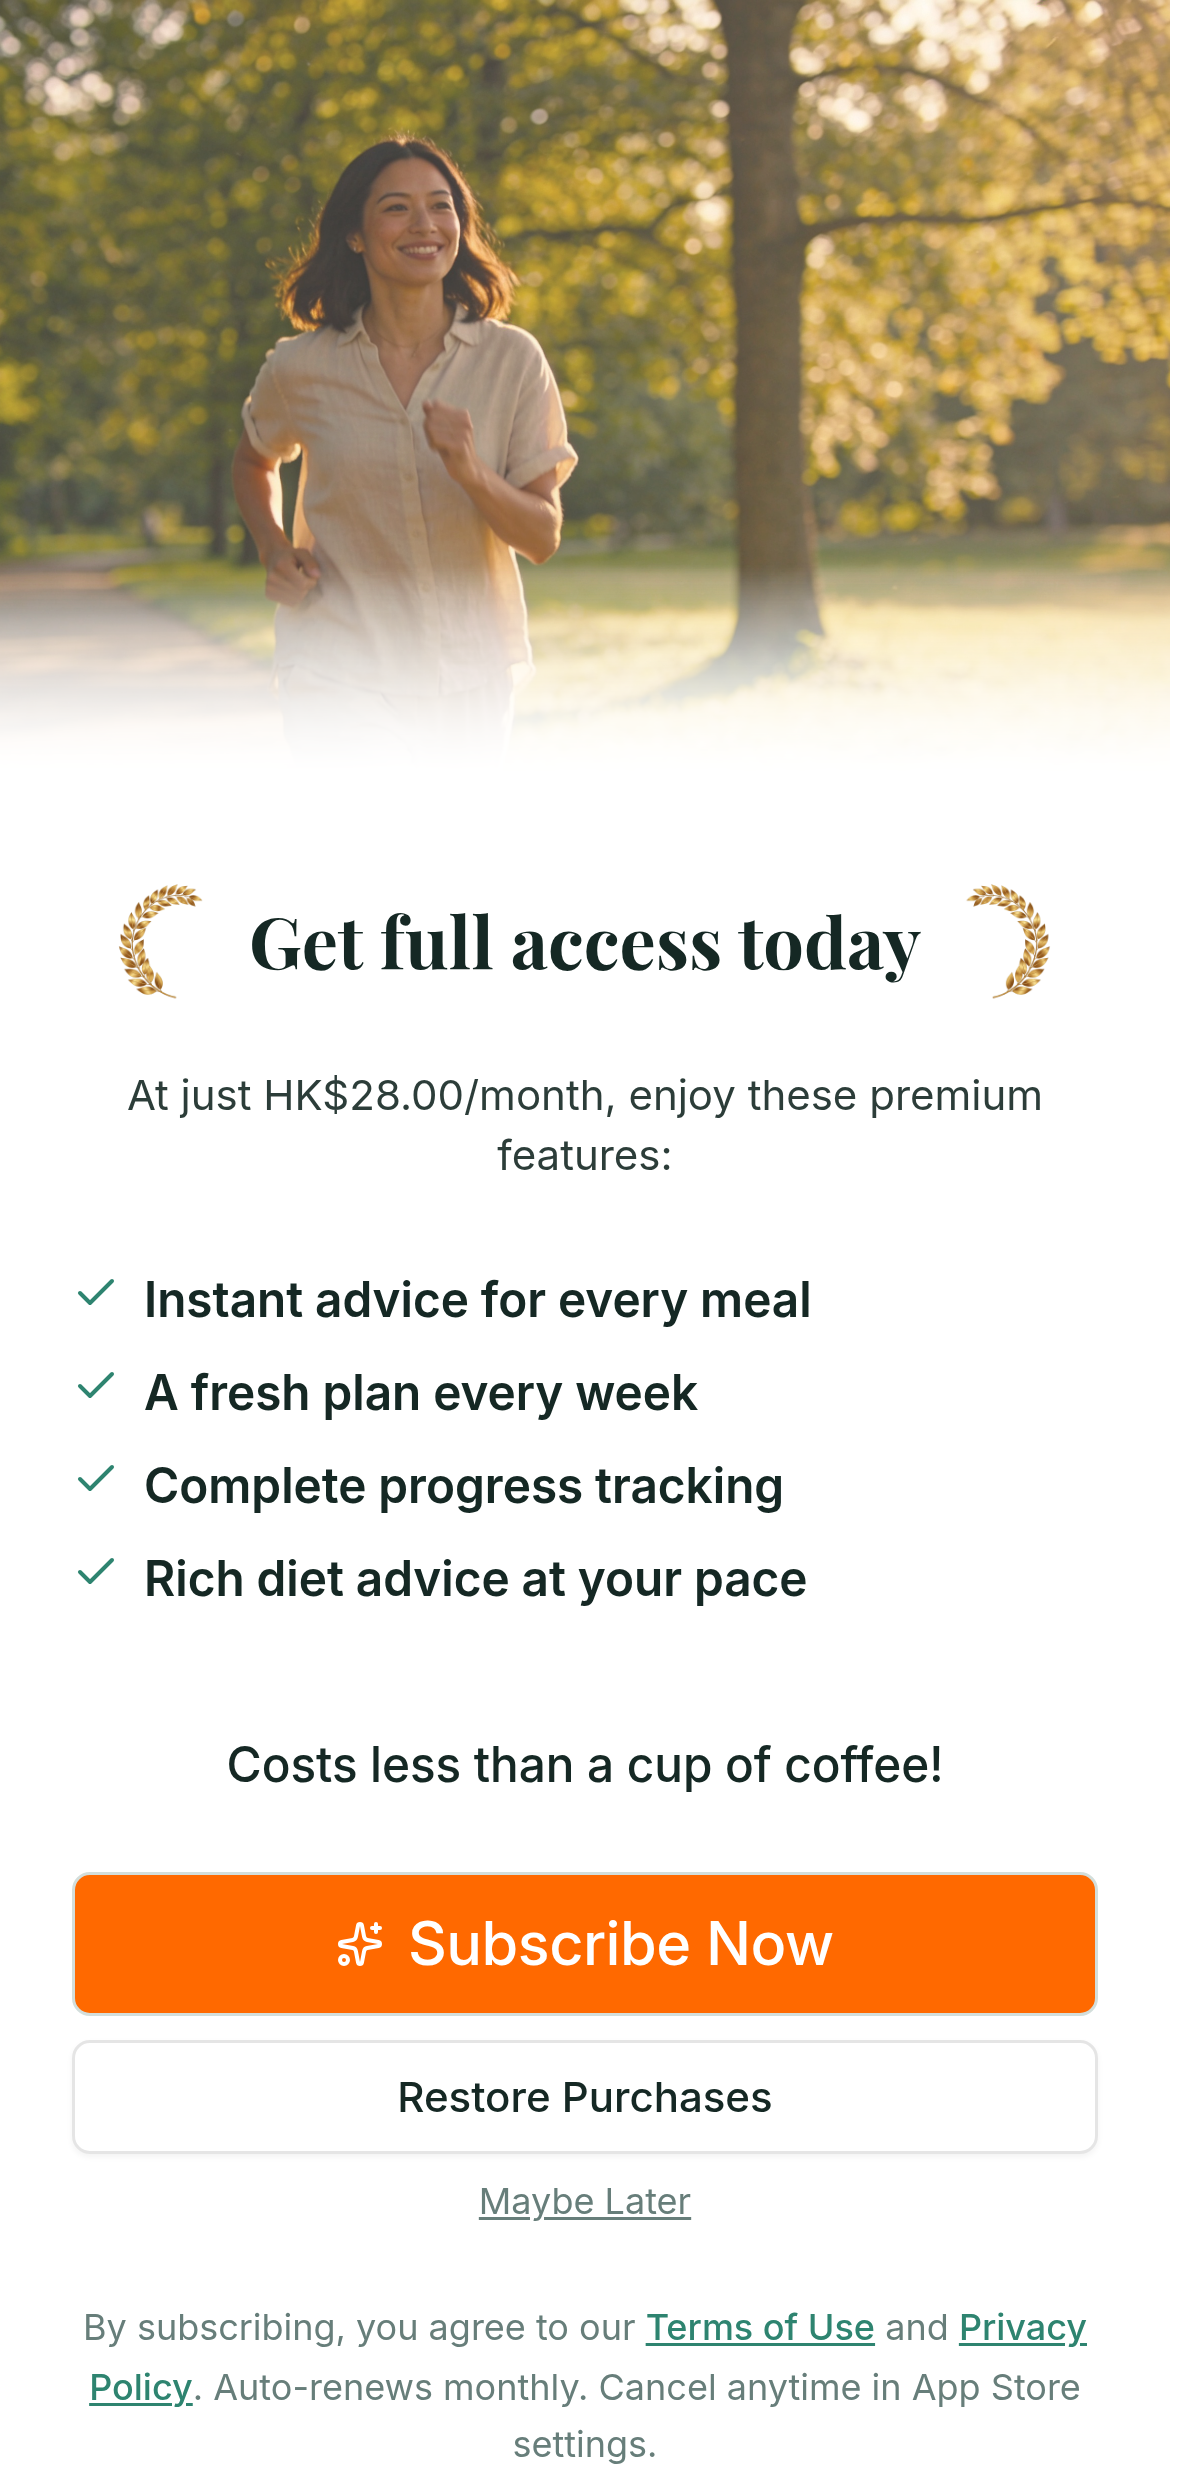
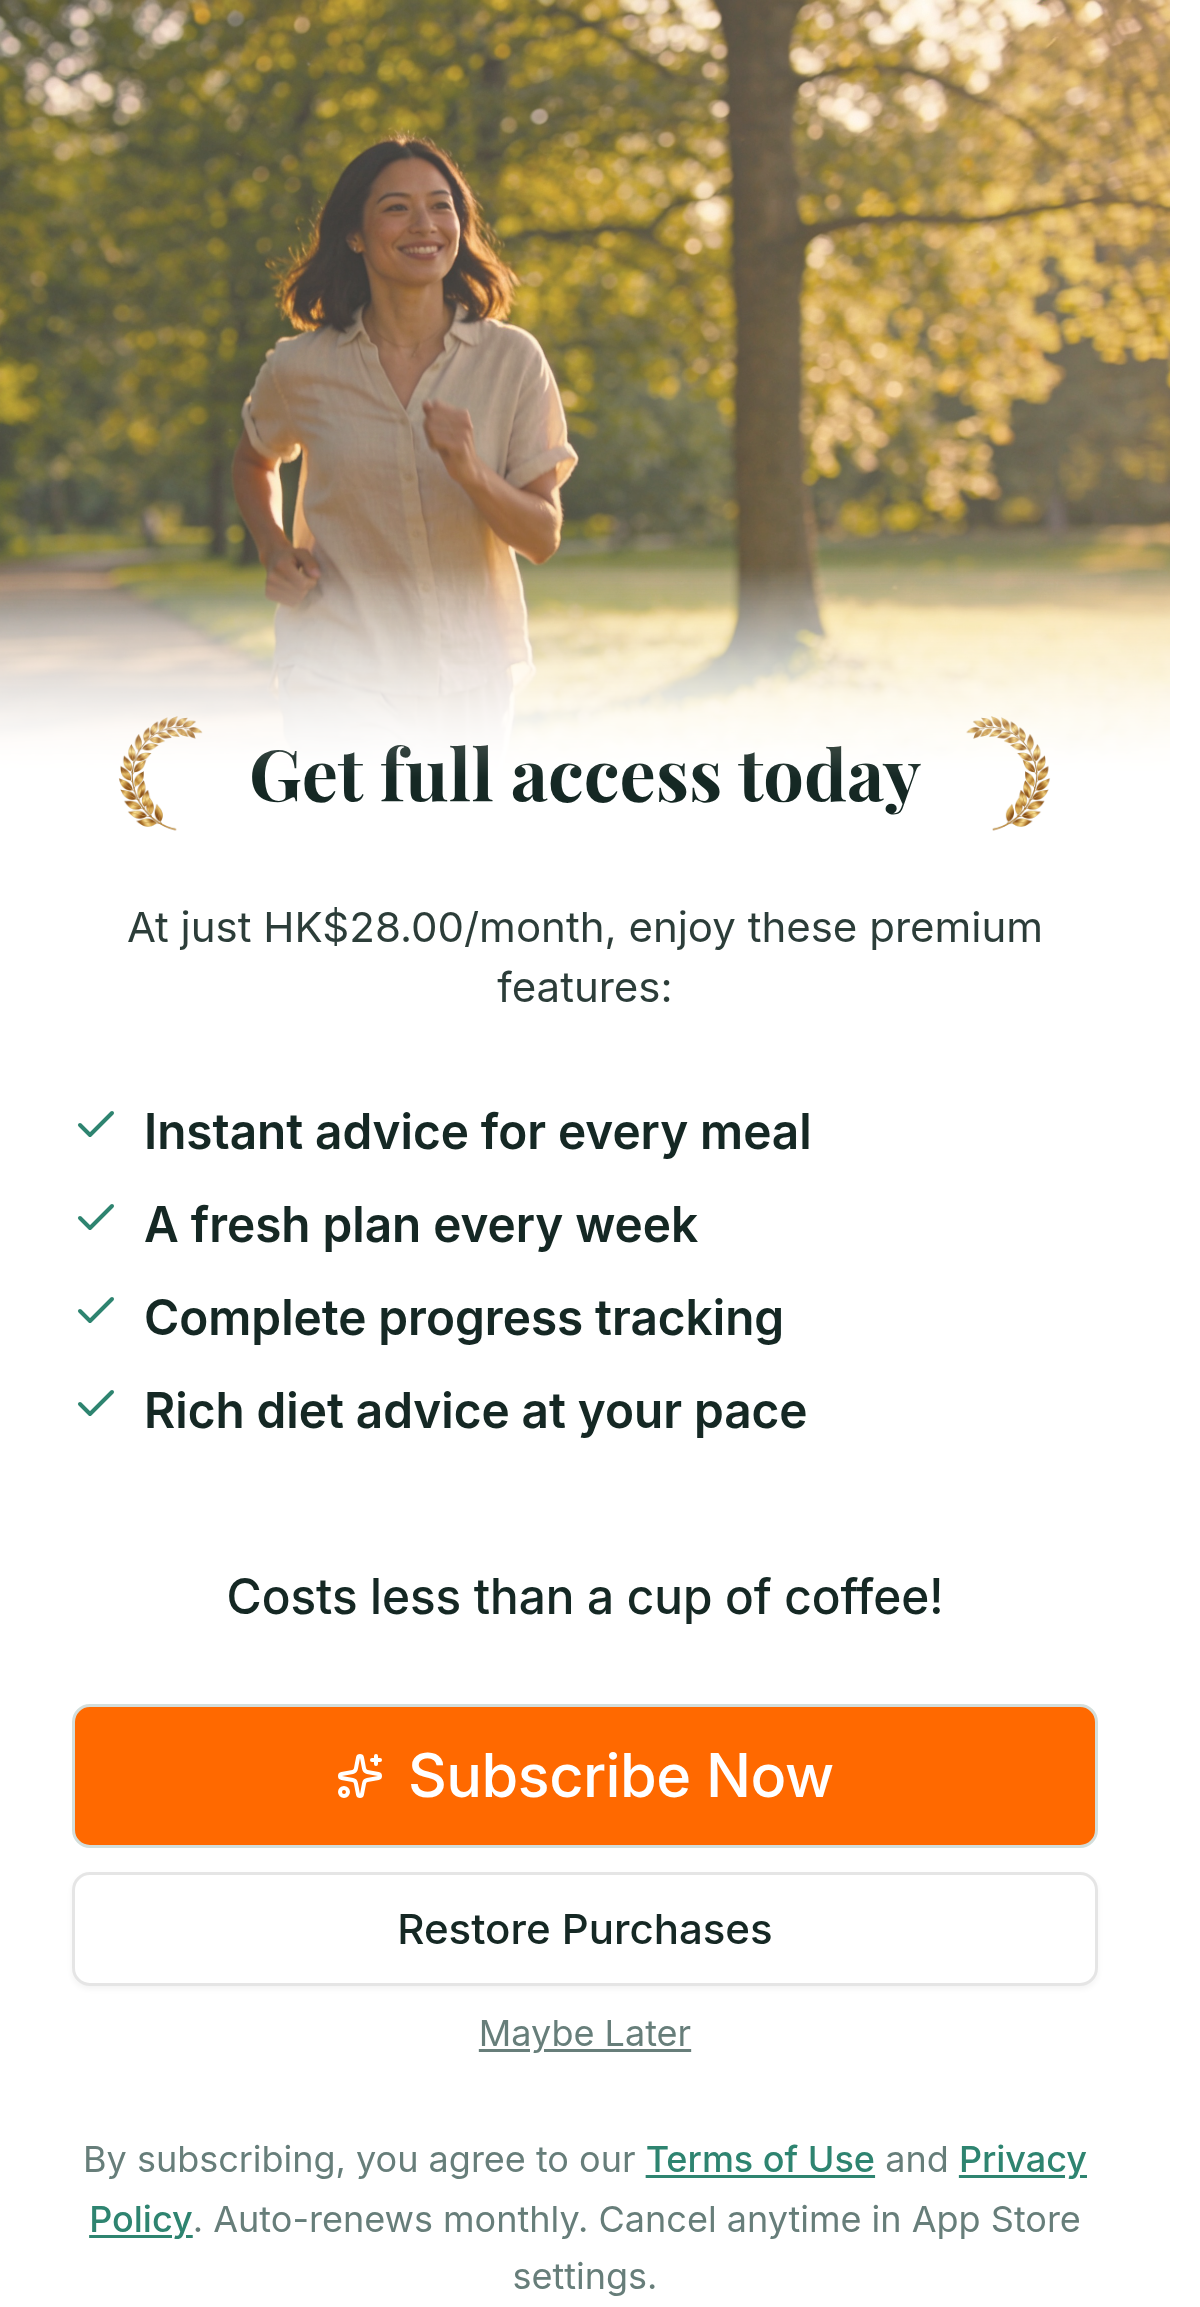
Task #422: Shrink paywall headline padding to 0.6× and refit canvas frame
Original task: User asked to (1) reduce the padding above "Get full access
today" to ~0.6× of current, (2) re-measure the mockup and refit the canvas
shape so there is zero white space.

Changes:
- client/src/components/paywall-modal.tsx: laurel/headline row top padding
  pt-[140px] → pt-[84px] (140 × 0.6 = 84). Less vertical space between the
  photo's cross-fade region and the headline.
- Re-measured content extents via getBoundingClientRect: maxRight 400.2,
  maxBottom 768.8 (was 824.8 — ~56px shorter as expected).
- scripts/screenshot-paywall-en.mjs: viewport 400×825 → 400×769. DPR stays 3,
  so PNG is now 1200×2307 (was 1200×2475).
- attached_assets/screenshots/paywall_en.png + .canvas/assets/paywall_en.png:
  regenerated at 1200×2307.
- Canvas shape m384-paywall-en: resized 390×804 → 390×750 to match the new
  PNG aspect (1200/2307 = 390/750 ≈ 0.520). src updated with cache-busted
  URL. .canvas/state/m384-paywall-en.json mirrors live state.

Result: image fills shape edge-to-edge with no letterboxing, no empty white
on right or bottom.

diff --git a/client/src/components/paywall-modal.tsx b/client/src/components/paywall-modal.tsx
@@ -145,7 +145,7 @@ export default function PaywallModal({ open, onClose, onPurchaseSuccess, lockApp
                 width: "calc(100% + 3rem)",
               }}
             >
-            <div className="flex items-center justify-center gap-3 w-full pt-[140px]">
+            <div className="flex items-center justify-center gap-3 w-full pt-[84px]">
               <img
                 src={laurelImg}
                 alt=""
